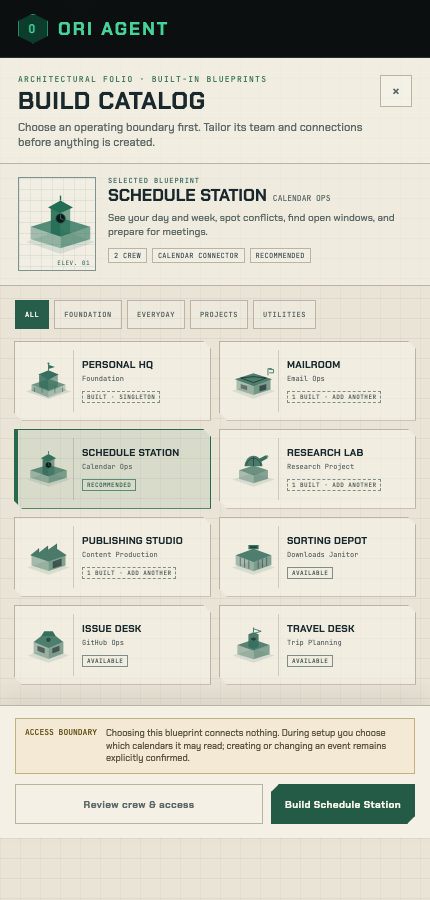
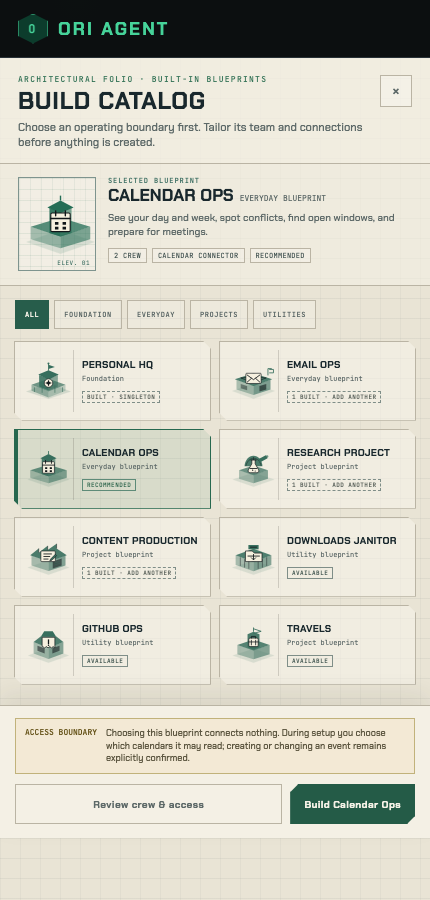
docs(design): clarify building identities

diff --git a/docs/design/building-blueprint-prototype.html b/docs/design/building-blueprint-prototype.html
@@ -695,7 +695,7 @@
     .folio-primary:hover { background: #173e30; }
 
     /* Context mode replaces the folio without changing the map's information
-       architecture: selecting a finished station returns to normal operation. */
+       architecture: selecting a finished building returns to normal operation. */
     .context-panel {
       display: grid;
       grid-template-rows: auto auto minmax(0, 1fr) auto;
@@ -829,8 +829,9 @@
   </style>
 </head>
 <body>
-  <!-- Curated, inert silhouettes. They communicate workspace type only; live
-       status remains text + LEDs outside the artwork. -->
+  <!-- Curated, inert silhouettes pair distinct rooflines with readable facade
+       emblems. They communicate workspace type only; live status remains text
+       plus LEDs outside the artwork. -->
   <svg class="svg-defs" aria-hidden="true">
     <defs>
       <symbol id="facility-hq" viewBox="0 0 120 88">
@@ -845,6 +846,10 @@
         <path d="M60 7l15 5-15 5z" fill="currentColor"/>
         <circle cx="60" cy="4" r="2.4" fill="currentColor"/>
         <path d="M27 60v11M93 60v11M45 55v18M75 55v18" fill="none" stroke="currentColor" stroke-width="2" opacity=".7"/>
+        <g data-emblem="hq">
+          <circle cx="60" cy="50" r="10" fill="#f6f0df" stroke="#101619" stroke-width="1.5"/>
+          <path d="M60 42l2.2 5.8 5.8 2.2-5.8 2.2L60 58l-2.2-5.8L52 50l5.8-2.2z" fill="#101619"/>
+        </g>
       </symbol>
       <symbol id="facility-mail" viewBox="0 0 120 88">
         <polygon points="60 51 110 69 60 87 10 69" fill="currentColor" opacity=".13" stroke="currentColor" stroke-opacity=".42"/>
@@ -855,18 +860,25 @@
         <polygon points="74 57 90 52 90 65 74 70" fill="#0d1718" opacity=".58"/>
         <polygon points="30 52 45 57 45 67 30 62" fill="#0d1718" opacity=".42"/>
         <path d="M94 32V16h9M97 18h10v8H97" fill="none" stroke="currentColor" stroke-width="2"/>
+        <g data-emblem="mail">
+          <rect x="42" y="27" width="36" height="24" rx="2" fill="#f6f0df" stroke="#101619" stroke-width="1.5"/>
+          <path d="M45 31l15 11 15-11M45 48l10-9M75 48l-10-9" fill="none" stroke="#101619" stroke-width="2" stroke-linecap="round" stroke-linejoin="round"/>
+        </g>
       </symbol>
       <symbol id="facility-calendar" viewBox="0 0 120 88">
         <polygon points="60 52 109 70 60 87 11 70" fill="currentColor" opacity=".13" stroke="currentColor" stroke-opacity=".45"/>
         <polygon points="17 48 60 61 60 79 17 66" fill="currentColor" opacity=".38"/>
         <polygon points="103 48 60 61 60 79 103 66" fill="currentColor" opacity=".58"/>
         <polygon points="17 48 60 35 103 48 60 62" fill="currentColor" opacity=".76"/>
-        <polygon points="46 21 60 26 60 62 46 57" fill="currentColor" opacity=".9"/>
-        <polygon points="74 21 60 26 60 62 74 57" fill="currentColor" opacity=".58"/>
-        <polygon points="60 10 78 20 60 28 42 20" fill="currentColor"/>
-        <circle cx="60" cy="36" r="7" fill="#101619" stroke="currentColor" stroke-width="1.4"/>
-        <path d="M60 31v5l4 2" fill="none" stroke="currentColor" stroke-width="1.5" stroke-linecap="round"/>
+        <polygon points="44 21 60 26 60 62 44 57" fill="currentColor" opacity=".9"/>
+        <polygon points="76 21 60 26 60 62 76 57" fill="currentColor" opacity=".58"/>
+        <polygon points="60 10 79 20 60 28 41 20" fill="currentColor"/>
         <path d="M60 10V3" stroke="currentColor" stroke-width="2"/>
+        <g data-emblem="calendar">
+          <rect x="46" y="28" width="28" height="27" rx="2" fill="#f6f0df" stroke="#101619" stroke-width="1.5"/>
+          <path d="M46 36h28M53 25v7M67 25v7" fill="none" stroke="#101619" stroke-width="2" stroke-linecap="round"/>
+          <path d="M52 41h5v4h-5zM63 41h5v4h-5zM52 48h5v4h-5zM63 48h5v4h-5z" fill="#101619"/>
+        </g>
       </symbol>
       <symbol id="facility-research" viewBox="0 0 120 88">
         <polygon points="60 54 109 70 60 87 11 70" fill="currentColor" opacity=".13" stroke="currentColor" stroke-opacity=".45"/>
@@ -877,6 +889,11 @@
         <path d="M42 38c3-11 10-18 18-18 9 0 16 7 18 18M60 17v21" fill="none" stroke="#101619" stroke-opacity=".7" stroke-width="1.5"/>
         <path d="M71 22l18-9 4 7-18 10" fill="currentColor"/>
         <circle cx="92" cy="16" r="3" fill="currentColor" opacity=".7"/>
+        <g data-emblem="research">
+          <path d="M56 24v9l-8 14c-2 4 0 7 4 7h16c4 0 6-3 4-7l-8-14v-9" fill="#f6f0df" stroke="#101619" stroke-width="1.6" stroke-linejoin="round"/>
+          <path d="M54 24h12M52 44h16" fill="none" stroke="#101619" stroke-width="2" stroke-linecap="round"/>
+          <circle cx="58" cy="48" r="1.5" fill="#101619"/><circle cx="64" cy="50" r="1.2" fill="#101619"/>
+        </g>
       </symbol>
       <symbol id="facility-studio" viewBox="0 0 120 88">
         <polygon points="60 53 109 70 60 87 11 70" fill="currentColor" opacity=".13" stroke="currentColor" stroke-opacity=".45"/>
@@ -886,6 +903,11 @@
         <path d="M37 25v10M58 19v10M79 14v11" stroke="#101619" stroke-opacity=".58" stroke-width="2"/>
         <polygon points="70 56 91 49 91 65 70 72" fill="#101619" opacity=".55"/>
         <path d="M74 59l13-4M74 64l13-4" stroke="currentColor" stroke-width="1.4" opacity=".7"/>
+        <g data-emblem="publishing">
+          <rect x="42" y="31" width="34" height="25" rx="2" fill="#f6f0df" stroke="#101619" stroke-width="1.5"/>
+          <path d="M49 38h18M49 44h14M49 50h10" stroke="#101619" stroke-width="2" stroke-linecap="round"/>
+          <path d="M65 50l11-11 3 3-11 11-5 1z" fill="currentColor" stroke="#101619" stroke-width="1.3" stroke-linejoin="round"/>
+        </g>
       </symbol>
       <symbol id="facility-depot" viewBox="0 0 120 88">
         <polygon points="60 54 110 70 60 87 10 70" fill="currentColor" opacity=".13" stroke="currentColor" stroke-opacity=".45"/>
@@ -895,6 +917,10 @@
         <path d="M29 46v20M39 50v20M49 53v20M71 53v20M81 50v20M91 46v20" stroke="#101619" stroke-opacity=".5" stroke-width="2"/>
         <rect x="48" y="17" width="24" height="10" fill="currentColor"/>
         <path d="M52 22h16" stroke="#101619" stroke-width="2"/>
+        <g data-emblem="folder">
+          <path d="M41 31h16l5 5h18v20H41z" fill="#f6f0df" stroke="#101619" stroke-width="1.6" stroke-linejoin="round"/>
+          <path d="M47 43h27M60 39v12M55 47l5 5 5-5" fill="none" stroke="#101619" stroke-width="2" stroke-linecap="round" stroke-linejoin="round"/>
+        </g>
       </symbol>
       <symbol id="facility-issues" viewBox="0 0 120 88">
         <polygon points="60 52 108 70 60 87 12 70" fill="currentColor" opacity=".13" stroke="currentColor" stroke-opacity=".45"/>
@@ -903,17 +929,23 @@
         <polygon points="25 38 43 24 77 24 95 38 60 52" fill="currentColor" opacity=".88"/>
         <polygon points="43 24 50 13 70 13 77 24" fill="currentColor"/>
         <path d="M34 47l17 6v12l-17-6zM69 53l17-6v12l-17 6z" fill="#101619" opacity=".54"/>
-        <circle cx="60" cy="33" r="5" fill="#101619" opacity=".58"/>
-        <circle cx="60" cy="33" r="1.4" fill="currentColor"/>
+        <g data-emblem="issue">
+          <path d="M45 27h30v25l-4-3-4 3-4-3-4 3-4-3-4 3-6-4z" fill="#f6f0df" stroke="#101619" stroke-width="1.6" stroke-linejoin="round"/>
+          <path d="M60 33v9" stroke="#101619" stroke-width="3" stroke-linecap="round"/>
+          <circle cx="60" cy="46" r="1.8" fill="#101619"/>
+        </g>
       </symbol>
       <symbol id="facility-travel" viewBox="0 0 120 88">
         <polygon points="60 54 109 70 60 87 11 70" fill="currentColor" opacity=".13" stroke="currentColor" stroke-opacity=".45"/>
         <polygon points="22 45 60 57 60 79 22 67" fill="currentColor" opacity=".4"/>
         <polygon points="98 45 60 57 60 79 98 67" fill="currentColor" opacity=".58"/>
         <polygon points="22 45 60 32 98 45 60 58" fill="currentColor" opacity=".84"/>
-        <polygon points="48 20 60 15 72 20 72 50 60 55 48 50" fill="currentColor" opacity=".9"/>
-        <path d="M60 15V4M60 7l18 6-18 5" fill="none" stroke="currentColor" stroke-width="2"/>
-        <path d="M52 31l8-4 8 4-8 4z" fill="#101619" opacity=".6"/>
+        <polygon points="46 20 60 14 74 20 74 51 60 56 46 51" fill="currentColor" opacity=".9"/>
+        <path d="M60 14V4M60 7l18 6-18 5" fill="none" stroke="currentColor" stroke-width="2"/>
+        <g data-emblem="travel">
+          <rect x="49" y="29" width="22" height="20" rx="3" fill="#f6f0df" stroke="#101619" stroke-width="1.6"/>
+          <path d="M55 29v-4h10v4M55 34v11M65 34v11M49 38h22" fill="none" stroke="#101619" stroke-width="1.8" stroke-linecap="round"/>
+        </g>
       </symbol>
       <symbol id="facility-custom" viewBox="0 0 120 88">
         <polygon points="60 53 108 70 60 87 12 70" fill="currentColor" opacity=".13" stroke="currentColor" stroke-opacity=".45"/>
@@ -949,14 +981,14 @@
           <div class="map-heading">
             <div class="eyebrow">Workspace architecture · 04 active</div>
             <h1 id="campusTitle">Your Ori Campus</h1>
-            <p>Each station is a workspace. Its blueprint defines the crew, tools, and operating boundary.</p>
+            <p>Each building is a workspace. Its blueprint defines the crew, tools, and operating boundary.</p>
           </div>
           <div class="map-actions">
             <div class="view-switch" aria-label="Workspace view">
               <button class="is-active" type="button" aria-pressed="true">Map</button>
               <button type="button" aria-pressed="false">Directory</button>
             </div>
-            <button id="openCatalog" class="build-button" type="button">＋ Build station</button>
+            <button id="openCatalog" class="build-button" type="button">＋ Build workspace</button>
           </div>
         </header>
 
@@ -977,30 +1009,30 @@
             <span class="facility-status">Ready</span>
           </button>
 
-          <button class="facility" data-facility="mail" data-variant="mail" data-status="setup" style="--x:56%;--y:28%" type="button" aria-label="Mailroom, setup required">
+          <button class="facility" data-facility="mail" data-variant="mail" data-status="setup" style="--x:56%;--y:28%" type="button" aria-label="Email Ops, setup required">
             <svg class="facility-art" aria-hidden="true"><use href="#facility-mail"></use></svg>
-            <span class="facility-name">Mailroom</span>
-            <span class="facility-type">Email Ops · 2 crew</span>
+            <span class="facility-name">Email Ops</span>
+            <span class="facility-type">Everyday · 2 crew</span>
             <span class="facility-status">Setup required</span>
           </button>
 
-          <button class="facility" data-facility="research" data-variant="research" data-status="ready" style="--x:25%;--y:73%" type="button" aria-label="Research Lab, ready">
+          <button class="facility" data-facility="research" data-variant="research" data-status="ready" style="--x:25%;--y:73%" type="button" aria-label="Research Project, ready">
             <svg class="facility-art" aria-hidden="true"><use href="#facility-research"></use></svg>
-            <span class="facility-name">Research Lab</span>
+            <span class="facility-name">Research Project</span>
             <span class="facility-type">Project · 3 crew</span>
             <span class="facility-status">Ready</span>
           </button>
 
-          <button class="facility" data-facility="studio" data-variant="studio" data-status="ready" style="--x:55%;--y:73%" type="button" aria-label="Publishing Studio, ready">
+          <button class="facility" data-facility="studio" data-variant="studio" data-status="ready" style="--x:55%;--y:73%" type="button" aria-label="Content Production, ready">
             <svg class="facility-art" aria-hidden="true"><use href="#facility-studio"></use></svg>
-            <span class="facility-name">Publishing Studio</span>
+            <span class="facility-name">Content Production</span>
             <span class="facility-type">Project · 4 crew</span>
             <span class="facility-status">Ready</span>
           </button>
 
           <div id="buildPreview" class="build-preview" data-variant="calendar" aria-hidden="true">
             <svg class="facility-art"><use id="previewUse" href="#facility-calendar"></use></svg>
-            <span id="previewLabel" class="preview-label">Schedule Station · preview</span>
+            <span id="previewLabel" class="preview-label">Calendar Ops · preview</span>
           </div>
         </div>
 
@@ -1010,7 +1042,7 @@
             <span class="setup"><i></i>Setup required</span>
             <span>Dashed site = placement preview</span>
           </div>
-          <span>Blueprints shape workspaces · status stays explicit</span>
+          <span>Blueprints shape buildings · status stays explicit</span>
           <div class="map-controls" aria-label="Map controls">
             <button type="button" aria-label="Zoom out">−</button>
             <button type="button" aria-label="Reset zoom">100</button>
@@ -1037,8 +1069,8 @@
             <div class="detail-copy">
               <div class="detail-kicker">Selected blueprint</div>
               <div class="detail-title-row">
-                <h3 id="detailName">Schedule Station</h3>
-                <span id="detailSubtitle">Calendar Ops</span>
+                <h3 id="detailName">Calendar Ops</h3>
+                <span id="detailSubtitle">Everyday blueprint</span>
               </div>
               <p id="detailDescription" class="detail-description">See your day and week, spot conflicts, find open windows, and prepare for meetings.</p>
               <div id="detailFacts" class="detail-facts">
@@ -1065,7 +1097,7 @@
             </div>
             <div class="folio-actions">
               <button id="blueprintDetails" class="folio-secondary" type="button">Review crew &amp; access</button>
-              <button id="buildSelected" class="folio-primary" type="button">Build Schedule Station</button>
+              <button id="buildSelected" class="folio-primary" type="button">Build Calendar Ops</button>
             </div>
           </footer>
         </section>
@@ -1074,7 +1106,7 @@
           <header class="context-head">
             <div class="context-head-top">
               <div>
-                <div class="eyebrow">Workspace station</div>
+                <div class="eyebrow">Workspace building</div>
                 <h2 id="contextTitle">Personal HQ</h2>
               </div>
               <button id="contextMenu" class="folio-close" type="button" aria-label="More workspace actions">···</button>
@@ -1087,7 +1119,7 @@
           <div class="context-body">
             <div id="contextStatus" class="context-status">Ready · Daily orientation available</div>
             <section class="context-section">
-              <h3>Station architecture</h3>
+              <h3>Workspace architecture</h3>
               <div class="context-list">
                 <div class="context-row"><span>Blueprint</span><strong id="contextBlueprint">Personal HQ</strong></div>
                 <div class="context-row"><span>Crew</span><strong id="contextCrew">Chief of Staff + Journal</strong></div>
@@ -1098,7 +1130,7 @@
           </div>
           <footer class="context-foot">
             <button class="context-open" type="button">Open workspace</button>
-            <button id="contextBuild" class="context-build" type="button">＋ Build another</button>
+            <button id="contextBuild" class="context-build" type="button">＋ Build workspace</button>
           </footer>
         </section>
       </aside>
@@ -1117,49 +1149,49 @@
         crew: "Chief of Staff + Journal", connections: "Cross-workspace summaries", rule: "Routes specialist work"
       },
       {
-        id: "mail", name: "Mailroom", subtitle: "Email Ops", category: "everyday", variant: "mail",
+        id: "mail", name: "Email Ops", subtitle: "Everyday blueprint", category: "everyday", variant: "mail",
         description: "Triage what needs a reply, prepare drafts for review, and keep email follow-ups visible.",
         facts: ["2 crew", "Mailbox connection", "Confirm-gated send"], built: 1, repeatable: true,
         access: "Choosing this blueprint connects nothing. Setup links one mailbox. Message content stays untrusted, and no message is sent without confirmation.",
         crew: "Postmaster + Inbox", connections: "One approved mailbox", rule: "Never sends without confirmation"
       },
       {
-        id: "calendar", name: "Schedule Station", subtitle: "Calendar Ops", category: "everyday", variant: "calendar",
+        id: "calendar", name: "Calendar Ops", subtitle: "Everyday blueprint", category: "everyday", variant: "calendar",
         description: "See your day and week, spot conflicts, find open windows, and prepare for meetings.",
         facts: ["2 crew", "Calendar connector", "Recommended"], built: 0, repeatable: true,
         access: "Choosing this blueprint connects nothing. During setup you choose which calendars it may read; creating or changing an event remains explicitly confirmed.",
         crew: "Scheduler + Meeting Prep", connections: "Selected calendars", rule: "Writes stay explicitly confirmed"
       },
       {
-        id: "research", name: "Research Lab", subtitle: "Research Project", category: "projects", variant: "research",
+        id: "research", name: "Research Project", subtitle: "Project blueprint", category: "projects", variant: "research",
         description: "Maintain a synthesis, source index, open questions, and a recurring reading rhythm.",
         facts: ["3 crew", "Source-aware", "Repeatable"], built: 1, repeatable: true,
-        access: "A Research Lab starts with workspace-local context. Web or document access is added deliberately as equipment, never inferred from the silhouette.",
+        access: "A Research Project starts with workspace-local context. Web or document access is added deliberately as equipment, never inferred from the silhouette.",
         crew: "Research Lead + 2 specialists", connections: "Optional sources", rule: "Cites evidence and gaps"
       },
       {
-        id: "studio", name: "Publishing Studio", subtitle: "Content Production", category: "projects", variant: "studio",
+        id: "studio", name: "Content Production", subtitle: "Project blueprint", category: "projects", variant: "studio",
         description: "Hold the brand voice, turn briefs into drafts, review them, and plan distribution.",
         facts: ["4 crew", "Brand context", "Repeatable"], built: 1, repeatable: true,
         access: "Publishing tools are optional equipment. Drafting is local to the workspace until a publishing connection is deliberately attached.",
         crew: "Content Lead + 3 specialists", connections: "Optional publishing tools", rule: "Review before distribution"
       },
       {
-        id: "depot", name: "Sorting Depot", subtitle: "Downloads Janitor", category: "utilities", variant: "depot",
+        id: "depot", name: "Downloads Janitor", subtitle: "Utility blueprint", category: "utilities", variant: "depot",
         description: "Prepare a review batch for one approved folder and file only what the user approves.",
         facts: ["1 crew", "One folder", "Approval required"], built: 0, repeatable: true,
-        access: "Setup grants one folder only. The station reads names and metadata by default; every move or Trash action requires user approval.",
+        access: "Setup grants one folder only. The workspace reads names and metadata by default; every move or Trash action requires user approval.",
         crew: "Downloads Curator", connections: "One approved folder", rule: "Never moves files autonomously"
       },
       {
-        id: "issues", name: "Issue Desk", subtitle: "GitHub Ops", category: "utilities", variant: "issues",
+        id: "issues", name: "GitHub Ops", subtitle: "Utility blueprint", category: "utilities", variant: "issues",
         description: "Triage one repository's issues and prepare comments, labels, or closes for review.",
         facts: ["1 crew", "One repository", "No code access"], built: 0, repeatable: true,
-        access: "Setup binds exactly one repository. The station needs issue access, not code access, and every GitHub write is explicitly confirmed.",
+        access: "Setup binds exactly one repository. The workspace needs issue access, not code access, and every GitHub write is explicitly confirmed.",
         crew: "Triage Lead", connections: "One repository", rule: "Proposes; user confirms"
       },
       {
-        id: "travel", name: "Travel Desk", subtitle: "Trip Planning", category: "projects", variant: "travel",
+        id: "travel", name: "Travels", subtitle: "Project blueprint", category: "projects", variant: "travel",
         description: "Keep one trip's dates, options, confirmations, and itinerary in a durable workspace.",
         facts: ["2 crew", "Trip context", "Repeatable"], built: 0, repeatable: true,
         access: "Travel search and booking tools are optional equipment. A blueprint selection never grants access or makes a purchase.",
@@ -1173,15 +1205,15 @@
         status: "Ready · Daily orientation available", blueprint: "Personal HQ", crew: "Chief of Staff + Journal", connections: "Cross-workspace summaries", rule: "Routes specialist work"
       },
       mail: {
-        title: "Mailroom", variant: "mail", description: "Dedicated inbox operations with a bounded mailbox connection and confirm-gated replies.",
+        title: "Email Ops", variant: "mail", description: "Dedicated inbox operations with a bounded mailbox connection and confirm-gated replies.",
         status: "Setup required · Connect one mailbox", blueprint: "Email Ops", crew: "Postmaster + Inbox", connections: "Not connected", rule: "Never sends without confirmation"
       },
       research: {
-        title: "Research Lab", variant: "research", description: "A durable home for one research question, its sources, synthesis, and open gaps.",
+        title: "Research Project", variant: "research", description: "A durable home for one research question, its sources, synthesis, and open gaps.",
         status: "Ready · Weekly reading scheduled", blueprint: "Research Project", crew: "Research Lead + 2 specialists", connections: "Web search", rule: "Cites evidence and gaps"
       },
       studio: {
-        title: "Publishing Studio", variant: "studio", description: "Brand context, drafts, editorial review, and distribution planning in one project workspace.",
+        title: "Content Production", variant: "studio", description: "Brand context, drafts, editorial review, and distribution planning in one project workspace.",
         status: "Ready · 3 drafts awaiting review", blueprint: "Content Production", crew: "Content Lead + 3 specialists", connections: "No publisher attached", rule: "Review before distribution"
       }
     };
